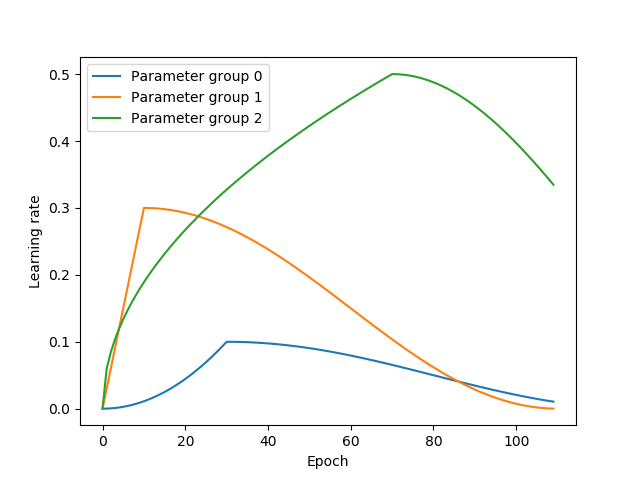
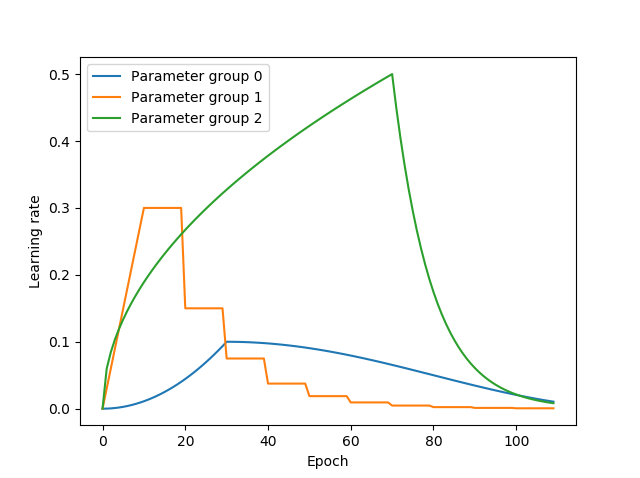
Add files via upload
added multiple schedulers

diff --git a/functional_warm_up.py b/functional_warm_up.py
@@ -5,11 +5,13 @@ from torch.optim.lr_scheduler import _LRScheduler
 
 class FuncLRScheduler(_LRScheduler):
 
-    def __init__(self, optimizer: Optimizer, lr_goal, warm_epochs, last_epoch: int = -1, fns=None,
-                 scheduler_after: _LRScheduler = None):
+    def __init__(self, optimizer: Optimizer, lr_goal, warm_epochs, scheduler_after,
+                 last_epoch: int = -1, fns=None):
         self.optimizer = optimizer
         self.func = []
         self.warm_epochs = []
+        self.next_scheduler = []
+        self.lr_goal = []
         self.last_epoch = last_epoch
         self.last_epochs = [0] * len(warm_epochs)
 
@@ -19,7 +21,7 @@ class FuncLRScheduler(_LRScheduler):
             if isinstance(item, types.FunctionType):
                 self.func.append(item)
             else:
-                raise ValueError("Expected fn to be a function, but got {}".format(type(fns)))
+                raise ValueError("Expected fn to be a function, but got {}".format(type(item)))
         if len(fns) != len(optimizer.param_groups):
             raise ValueError("Expected {} functions, but got {}".format(
                 len(optimizer.param_groups), len(fns)))
@@ -30,23 +32,34 @@ class FuncLRScheduler(_LRScheduler):
             if isinstance(item, int):
                 self.warm_epochs.append(item)
             else:
-                raise ValueError("Expected warm_epochs to be an int, but got {}".format(type(fns)))
+                raise ValueError("Expected warm_epochs to be an int, but got {}".format(type(item)))
         if len(warm_epochs) != len(optimizer.param_groups):
             raise ValueError("Expected {} warm_epochs, but got {}".format(
                 len(optimizer.param_groups), len(warm_epochs)))
 
         if not isinstance(lr_goal, list) and not isinstance(lr_goal, tuple):
             self.lr_goal = [lr_goal] * len(optimizer.param_groups)
+        for item in lr_goal:
+            if isinstance(item, float) | isinstance(item, int):
+                self.lr_goal.append(item)
+            else:
+                raise ValueError("Expected learning rate to be float or int, but got {}".format(type(item)))
         else:
             if len(lr_goal) != len(optimizer.param_groups):
                 raise ValueError("Expected {} lr_lambdas, but got {}".format(
                     len(optimizer.param_groups), len(lr_goal)))
             self.lr_goal = list(lr_goal)
 
-        if isinstance(scheduler_after, _LRScheduler):
-            self.next_scheduler = scheduler_after
-        else:
-            raise ValueError("Expected scheduler_after to be a scheduler, but got {}".format(type(scheduler_after)))
+        if not isinstance(scheduler_after, list) and not isinstance(scheduler_after, tuple):
+            self.next_scheduler = [scheduler_after] * len(optimizer.param_groups)
+        for item in scheduler_after:
+            if isinstance(item, _LRScheduler):
+                self.next_scheduler.append(item)
+            else:
+                raise ValueError("Expected scheduler_after to be a scheduler, but got {}".format(type(item)))
+        if len(scheduler_after) != len(optimizer.param_groups):
+            raise ValueError("Expected {} scheduler_after, but got {}".format(
+                len(optimizer.param_groups), len(scheduler_after)))
 
         super().__init__(optimizer, last_epoch)
 
@@ -61,7 +74,7 @@ class FuncLRScheduler(_LRScheduler):
                      zip(self.func, self.lr_goal, self.warm_epochs)]
         for index, item in enumerate(to_return):
             if item < 0:
-                self.next_scheduler.last_epoch = self.last_epochs[index] + 1
-                to_return[index] = self.next_scheduler.get_lr()[index]
-                self.last_epochs[index] = self.next_scheduler.last_epoch
+                self.next_scheduler[index].last_epoch = self.last_epochs[index] + 1
+                to_return[index] = self.next_scheduler[index].get_lr()[index]
+                self.last_epochs[index] = self.next_scheduler[index].last_epoch
         return to_return

diff --git a/test.py b/test.py
@@ -47,12 +47,15 @@ if __name__ == '__main__':
               {'params': net.conv2.parameters(), 'weight_decay': 0.2},
               {'params': net.conv3.parameters(), 'weight_decay': 0.3}]
     opt = optim.Adam(params=params)
-    n_scheduler = optim.lr_scheduler.CosineAnnealingLR(opt, T_max=100)
+    n_scheduler_1 = optim.lr_scheduler.CosineAnnealingLR(opt, T_max=100)
+    n_scheduler_2 = optim.lr_scheduler.StepLR(opt, gamma=0.5, step_size=10)
+    n_scheduler_3 = optim.lr_scheduler.ExponentialLR(opt, gamma=0.9)
     lr_goal = [0.1, 0.3, 0.5]
     fns = [quadratic, linear, quad_square]
     warm_epochs = [30, 10, 70]
+    schedulers = [n_scheduler_1, n_scheduler_2, n_scheduler_3]
     wu_scheduler = FuncLRScheduler(optimizer=opt, lr_goal=lr_goal, warm_epochs=warm_epochs, fns=fns,
-                                   scheduler_after=n_scheduler)
+                                   scheduler_after=schedulers)
 
     epochs_before_save = 10
     for epoch in range(0, epochs_before_save):
